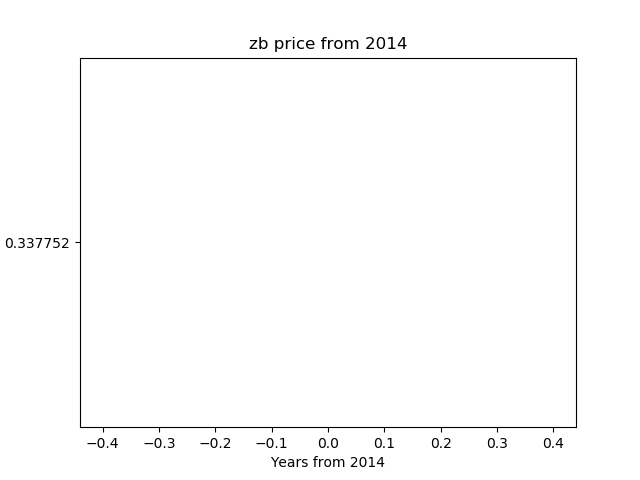
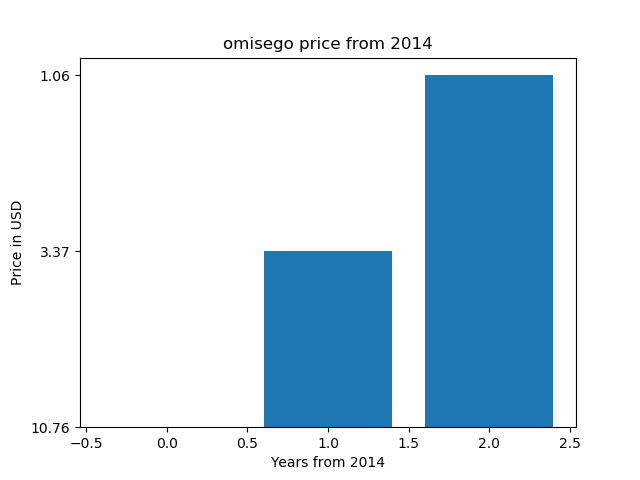
first commit

diff --git a/example.py b/example.py
@@ -10,7 +10,7 @@ from time import gmtime, strftime
 import matplotlib.pyplot as plt
 
 enddate = strftime("%Y%m%d", gmtime())
-r  = requests.get("https://coinmarketcap.com/currencies/zb/historical-data/?start=20140101&end={0}".format(enddate))
+r  = requests.get("https://coinmarketcap.com/currencies/omisego/historical-data/?start=20140101&end={0}".format(enddate))
 data = r.text
 
 soup = BeautifulSoup(data, "html.parser")
@@ -37,7 +37,7 @@ print(prices)
 
 x = list(range(0, len(prices)))
 
-plt.title('zb price from 2014')
+plt.title('omisego price from 2014')
 plt.ylabel('Price in USD')
 plt.xlabel('Years from 2014')
 plt.bar(x, prices)

diff --git a/README.md b/README.md
@@ -1,6 +1,6 @@
-# zb price chart 
+# omisego price chart 
 
-zb price chart (matplotlib, python)
+omisego price chart (matplotlib, python)
 
 https://pythonprogramminglanguage.com
 
